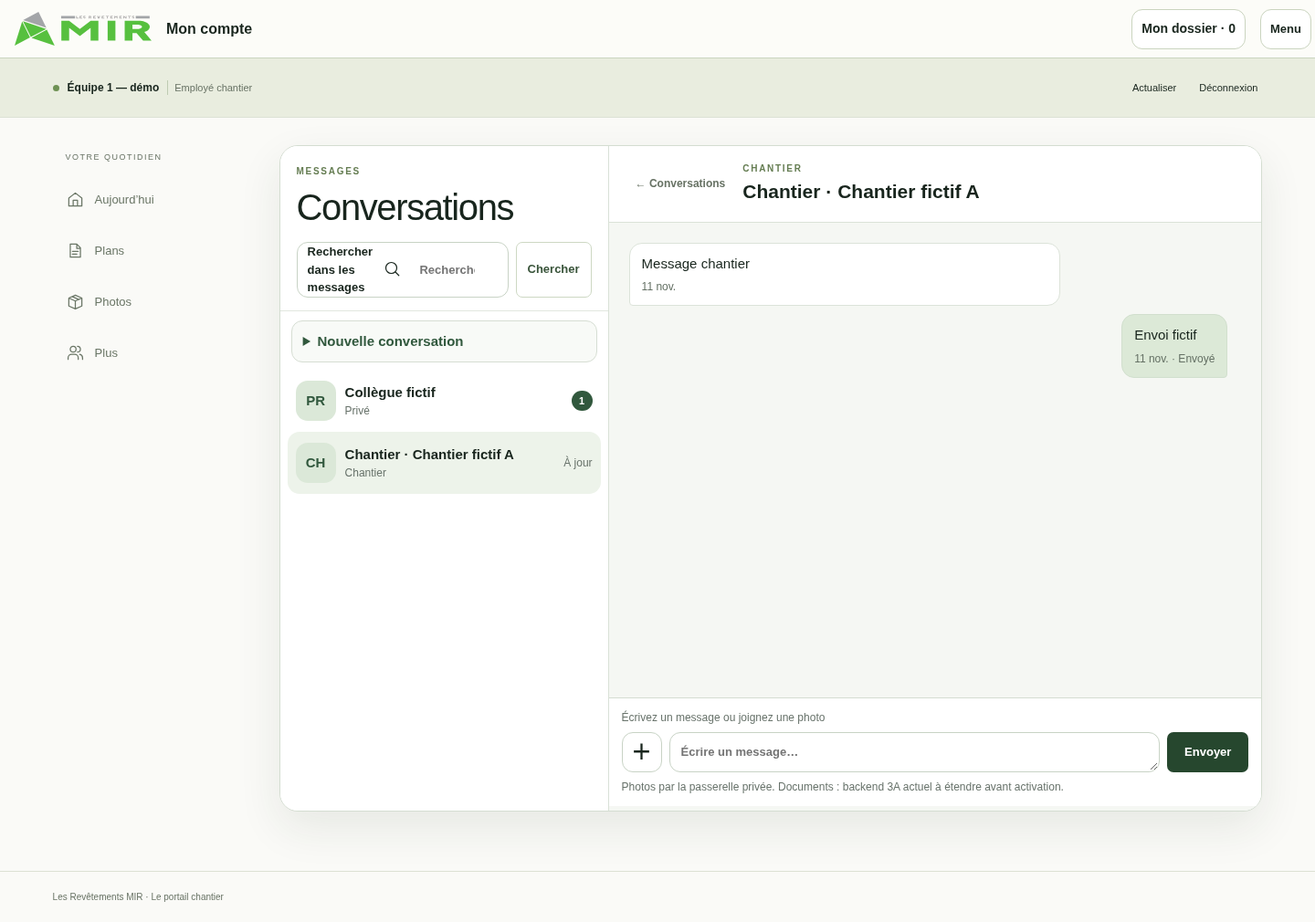
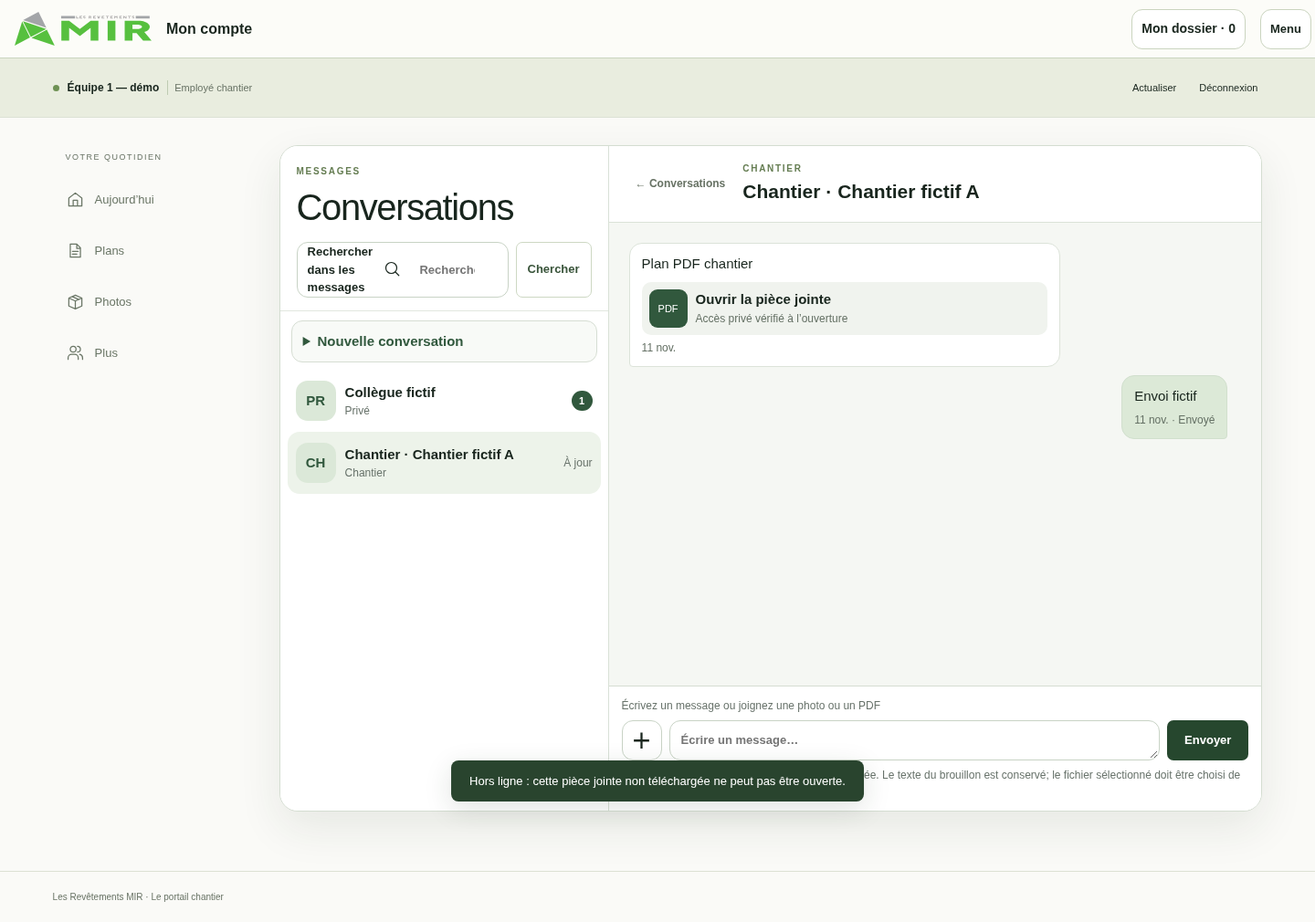
feat(chat): ajouter les PDF privés en phase 3B

Changed region(s): [[0.3438, 0.7366, 0.9688, 0.8901], [0.8438, 0.3376, 0.9375, 0.4911], [0.4688, 0.2762, 0.625, 0.3683]]

diff --git a/dist/chantier-app.js b/dist/chantier-app.js
@@ -259,7 +259,7 @@
     const list=`<aside class="chat-list-pane"><div class="chat-list-head">${heading('MESSAGES','Conversations','Privées, équipe et chantier.')}<form id="chat-search-form" role="search"><label><span class="sr-only">Rechercher dans les messages</span>${icon('search')}<input name="query" type="search" maxlength="120" value="${esc(chatQuery)}" placeholder="Rechercher"></label><button class="button secondary" type="submit">Chercher</button></form></div>${chatSearchResults?`<div class="chat-search-results"><div class="chat-section-title"><strong>Résultats</strong><button type="button" data-chat-search-close>Fermer</button></div>${chatSearchResults.length?chatSearchResults.map(message=>`<button type="button" data-conversation="${esc(message.conversationId)}"><strong>${esc(message.body||'Pièce jointe')}</strong><small>${date(message.sentAt)}</small></button>`).join(''):chatState('empty','Aucun résultat','Essayez un autre mot.')}</div>`:`<div class="chat-start"><details><summary>Nouvelle conversation</summary>${contacts.map(person=>`<button type="button" data-start-private="${esc(person.id)}"><strong>${esc(person.name)}</strong><small>Conversation privée · ${esc(person.role)}</small></button>`).join('')}${teams.map(team=>`<button type="button" data-start-team="${esc(team.id)}"><strong>${esc(team.name)}</strong><small>Conversation d’équipe</small></button>`).join('')}</details></div><div class="chat-conversations">${conversations.length?conversations.map(conversation=>{const label=chatConversationLabel(conversation,teams,contactMap),kind=conversation.kind==='job'?'Chantier':conversation.kind==='team'?'Équipe':'Privé';return `<button type="button" data-conversation="${esc(conversation.id)}" aria-current="${conversation.id===ui.conversationId?'true':'false'}"><span class="chat-avatar">${esc(kind.slice(0,2).toUpperCase())}</span><span><strong>${esc(label)}</strong><small>${esc(kind)}${conversation.lastMessage?.body?' · '+esc(conversation.lastMessage.body):''}</small></span>${conversation.unread?`<b class="chat-unread">${Number(conversation.unread)}</b>`:'<time>À jour</time>'}</button>`;}).join(''):chatState('empty','Aucune conversation','Les conversations autorisées apparaîtront ici.')} ${messaging.conversationPage?.hasMore?'<button type="button" class="button secondary chat-more" data-chat-conversations-more>Conversations suivantes</button>':''}</div>`}</aside>`;
     if(!selected)return `<section class="chat-workspace">${list}<div class="chat-placeholder">${online?chatState('empty','Choisissez une conversation','Les messages et pièces jointes s’ouvriront ici.'):chatState('offline','Vous êtes hors ligne','Les conversations déjà affichées restent visibles.')}</div></section>`;
     const messages=(messaging.messages||[]).filter(item=>item.conversationId===selected.id),title=chatConversationLabel(selected,teams,contactMap),draft=chatDraft(selected.id);
-    const thread=`<section class="message-thread"><header class="chat-thread-head"><button type="button" class="button quiet chat-back" data-messages-back>← Conversations</button><div><p class="portal-eyebrow">${selected.kind==='job'?'CHANTIER':selected.kind==='team'?'ÉQUIPE':'PRIVÉ'}</p><h1>${esc(title)}</h1></div></header>${!online?'<div class="chat-network" role="status">Hors ligne · le brouillon reste sur cet appareil</div>':''}${chatError?chatState('error','Accès impossible',chatError,'<button type="button" data-chat-retry>Réessayer</button>'):''}<div class="message-list" aria-busy="${chatLoading}">${messaging.messagePages?.[selected.id]?.hasMore?'<button type="button" class="button secondary chat-more" data-chat-messages-more>Messages précédents</button>':''}${chatLoading&&!messages.length?chatState('loading','Chargement des messages','Un instant…'):messages.length?messages.map(message=>`<article class="${message.senderId===actorId?'mine':'theirs'}"><p>${esc(message.body)}</p>${message.jobId?`<button type="button" data-job="${esc(message.jobId)}">Ouvrir le job</button>`:''}${chatAttachment(message)}<small>${date(message.sentAt)}${message.senderId===actorId?` · ${message.readCount?`Lu par ${message.readCount} sur ${message.recipientCount}`:message.deliveredCount?'Distribué':'Envoyé'}`:''}</small></article>`).join(''):chatState('empty','Aucun message','Écrivez le premier message de cette conversation.')}</div>${selected.readOnly?chatState('denied','Chantier archivé · lecture seule.','Les nouveaux envois sont refusés.'):`<form id="message-form" data-conversation="${esc(selected.id)}"><div class="chat-draft-status">${draft?'Brouillon enregistré':'Écrivez un message ou joignez une photo'}</div><label class="chat-compose"><span class="chat-file-button" title="Joindre une photo">＋<input name="photo" type="file" accept="image/jpeg,image/png,image/webp,image/heic,image/heif" capture="environment" aria-label="Joindre une photo"></span><textarea name="body" maxlength="4000" rows="1" placeholder="Écrire un message…" aria-label="Message">${esc(draft)}</textarea><button class="button chat-send" type="submit"${chatBusy||!online?' disabled':''}>${chatBusy?'Envoi…':'Envoyer'}</button></label><small class="chat-document-limit">Photos par la passerelle privée. Documents : backend 3A actuel à étendre avant activation.</small></form>`}</section>`;
+    const thread=`<section class="message-thread"><header class="chat-thread-head"><button type="button" class="button quiet chat-back" data-messages-back>← Conversations</button><div><p class="portal-eyebrow">${selected.kind==='job'?'CHANTIER':selected.kind==='team'?'ÉQUIPE':'PRIVÉ'}</p><h1>${esc(title)}</h1></div></header>${!online?'<div class="chat-network" role="status">Hors ligne · le brouillon texte reste sur cet appareil. Une pièce jointe non téléchargée ne peut pas être ouverte.</div>':''}${chatError?chatState('error','Accès impossible',chatError,'<button type="button" data-chat-retry>Réessayer</button>'):''}<div class="message-list" aria-busy="${chatLoading}">${messaging.messagePages?.[selected.id]?.hasMore?'<button type="button" class="button secondary chat-more" data-chat-messages-more>Messages précédents</button>':''}${chatLoading&&!messages.length?chatState('loading','Chargement des messages','Un instant…'):messages.length?messages.map(message=>`<article class="${message.senderId===actorId?'mine':'theirs'}"><p>${esc(message.body)}</p>${message.jobId?`<button type="button" data-job="${esc(message.jobId)}">Ouvrir le job</button>`:''}${chatAttachment(message)}<small>${date(message.sentAt)}${message.senderId===actorId?` · ${message.readCount?`Lu par ${message.readCount} sur ${message.recipientCount}`:message.deliveredCount?'Distribué':'Envoyé'}`:''}</small></article>`).join(''):chatState('empty','Aucun message','Écrivez le premier message de cette conversation.')}</div>${selected.readOnly?chatState('denied','Chantier archivé · lecture seule.','Les nouveaux envois sont refusés.'):`<form id="message-form" data-conversation="${esc(selected.id)}"><div class="chat-draft-status">${draft?'Brouillon enregistré':'Écrivez un message ou joignez une photo ou un PDF'}</div><label class="chat-compose"><span class="chat-file-button" title="Joindre une photo ou un PDF">＋<input name="photo" type="file" accept="image/jpeg,image/png,image/webp,image/heic,image/heif,application/pdf" aria-label="Joindre une photo ou un PDF"></span><textarea name="body" maxlength="4000" rows="1" placeholder="Écrire un message…" aria-label="Message">${esc(draft)}</textarea><button class="button chat-send" type="submit"${chatBusy||!online?' disabled':''}>${chatBusy?'Envoi…':'Envoyer'}</button></label><small class="chat-document-limit">Photos et PDF · 10 Mo maximum · passerelle privée. Le texte du brouillon est conservé; le fichier sélectionné doit être choisi de nouveau après rechargement.</small></form>`}</section>`;
     return `<section class="chat-workspace has-thread">${list}${thread}</section>`;}
   function renderAccount(){const requests=state.operations?.hrRequests||[];return `<section class="employee-simple">${heading('MON COMPTE','Congés, absences et heures','Vos renseignements RH restent séparés des chantiers et des messages.')}<div class="account-action-list">${state.punch?.enabled?`<button type="button" data-view="punch-hours">Mes heures ${icon('arrow')}</button>`:''}<button type="button" data-hr="absence">Signaler une absence aujourd’hui ${icon('arrow')}</button><button type="button" data-hr="leave">Demander un congé ou des vacances ${icon('arrow')}</button><button type="button" data-hr="requests">Mes demandes ${icon('arrow')}</button></div>${requests.length?`<div class="hr-request-list"><h2>Mes demandes</h2>${requests.filter(item=>item.employeeId===actorId).map(item=>`<article><strong>${item.type==='vacation'?'Vacances':item.type==='leave'?'Congé':'Absence'}</strong><span>${esc(item.startDate)} → ${esc(item.endDate)}</span><b>${item.status==='approved'?'Approuvé':item.status==='refused'?'Refusé':'En attente'}</b></article>`).join('')}</div>`:''}</section>`;}
   
@@ -640,7 +640,7 @@
       }
       save();return render();
     }
-    if(button.dataset.internalPhoto){try{const path=button.dataset.internalPhoto,url=path.split('/')[1]==='message'&&portalClient.chatPhotoURL?await portalClient.chatPhotoURL(path):await portalClient.internalPhotoURL(path);window.open(url,'_blank','noopener');}catch(error){toast(errorMessage(error));}return;}
+    if(button.dataset.internalPhoto){if(navigator.onLine===false){toast('Hors ligne : cette pièce jointe non téléchargée ne peut pas être ouverte.');return;}try{const path=button.dataset.internalPhoto,url=path.split('/')[1]==='message'&&portalClient.chatFileURL?await portalClient.chatFileURL(path):await portalClient.internalPhotoURL(path);window.open(url,'_blank','noopener');}catch(error){toast(errorMessage(error));}return;}
     if(button.dataset.materialTab){ui.materialTab=button.dataset.materialTab;save();return render();}
     if(button.dataset.latestPlan){const job=jobsForActor().find(item=>item.id===button.dataset.latestPlan),version=state.planVersions.find(item=>item.id===job?.publishedVersionId),document=(version?.documents||[])[0];if(!document)return showJob(button.dataset.latestPlan);if(!isDemo()&&document.id&&portalClient?.config.documentsEnabled){button.dataset.downloadPlan=document.id;button.dataset.documentName=document.name||'Plan-chantier.pdf';return handleClick({target:button});}const url=isDemo()?safeDocumentURL(document.url):null;if(url){window.open(url,'_blank','noopener');return;}return showJob(button.dataset.latestPlan);}
     if(button.dataset.extraJob){const job=jobById(button.dataset.extraJob);openDialog(dialogHeader('EXTRA CHANTIER',`Job ${jobNumber(job)}`,'Décrivez le travail supplémentaire demandé.')+`<form id="extra-form" class="dialog-form" data-job="${esc(job.id)}"><label>Description<textarea name="description" maxlength="1200" required></textarea></label><label>Photo facultative<input name="photo" type="file" accept="image/*" capture="environment"></label><p id="dialog-error" class="dialog-error" role="alert" hidden></p><div class="dialog-actions"><button type="button" class="button secondary" data-close-dialog>Annuler</button><button type="submit" class="button">Envoyer l’extra</button></div></form>`);return;}
@@ -724,7 +724,7 @@
      if(element.dataset.productColor||element.dataset.productFormat){const card=element.closest('[data-product]');updateProductPreview(card,itemById(card.dataset.product));return;}
     if(element.dataset.inventoryColor||element.dataset.inventoryFormat){const item=itemById(element.dataset.inventoryColor||element.dataset.inventoryFormat),form=element.closest('form'),out=model.configureLine(state,{itemId:item.id,quantity:item.quantityStep||1,colorId:form.elements.colorId?.value||undefined,formatId:form.elements.formatId?.value||undefined}),stock=out.ok?stockFor(out.line.stockKey):{known:false};form.querySelector('.stock-value').innerHTML=stockHTML(stock,item.unit);form.elements.quantity.value=stock.known?stock.onHand:'';}
   }
-  function handleInput(event) {const element=event.target;if(element.matches('#message-form textarea[name=body]')){ui.chatDrafts=ui.chatDrafts||{};ui.chatDrafts[element.form.dataset.conversation]=element.value;save();const status=element.form.querySelector('.chat-draft-status');if(status)status.textContent=element.value?'Brouillon enregistré':'Écrivez un message ou joignez une photo';}else if(element.matches('#chat-search-form input[name=query]')){chatQuery=element.value;}else if(element.id==='boutique-price-search'){query=element.value;render();$('#boutique-price-search')?.focus();}else if(element.matches('#create-order-form textarea[name=note]')){deliveryDraft.note=element.value;}else if(element.id==='catalogue-search'){query=element.value;renderCatalogueGrid();}else if(element.id==='inventory-search'){query=element.value;renderInventoryList();}else if(element.dataset.foldDimension){const form=element.closest('form'),values={};form.querySelectorAll('[data-fold-dimension]').forEach(input=>values[input.dataset.foldDimension]=input.value);$('#fold-diagram').innerHTML=foldSVG(itemById(form.dataset.item),values);}}
+  function handleInput(event) {const element=event.target;if(element.matches('#message-form textarea[name=body]')){ui.chatDrafts=ui.chatDrafts||{};ui.chatDrafts[element.form.dataset.conversation]=element.value;save();const status=element.form.querySelector('.chat-draft-status');if(status)status.textContent=element.value?'Brouillon enregistré':'Écrivez un message ou joignez une photo ou un PDF';}else if(element.matches('#chat-search-form input[name=query]')){chatQuery=element.value;}else if(element.id==='boutique-price-search'){query=element.value;render();$('#boutique-price-search')?.focus();}else if(element.matches('#create-order-form textarea[name=note]')){deliveryDraft.note=element.value;}else if(element.id==='catalogue-search'){query=element.value;renderCatalogueGrid();}else if(element.id==='inventory-search'){query=element.value;renderInventoryList();}else if(element.dataset.foldDimension){const form=element.closest('form'),values={};form.querySelectorAll('[data-fold-dimension]').forEach(input=>values[input.dataset.foldDimension]=input.value);$('#fold-diagram').innerHTML=foldSVG(itemById(form.dataset.item),values);}}
   function showDepartureInspection(runId){const data=logistics(),run=data.runs.find(r=>r.id===runId),vehicle=data.vehicles.find(v=>v.id===run?.vehicle_id),inspection=data.inspections.find(i=>i.run_id===runId&&i.phase==='pre_departure'),rules=data.rules.filter(r=>r.phase==='pre_departure'&&r.requirement!=='disabled'&&(!r.vehicle_id||r.vehicle_id===run.vehicle_id)&&(!r.vehicle_type||r.vehicle_type===vehicle?.vehicle_type)&&(!r.trailer_only||run.trailer_id));if(!inspection)return toast('L’inspection est en préparation. Actualisez la page.');openDialog(dialogHeader('AVANT LE DÉPART','Inspection du véhicule',`${rules.filter(r=>r.requirement==='required').length} vérification(s) obligatoires. Aucun contournement silencieux.`)+`<form id="departure-inspection-form" class="dialog-form" data-run="${esc(runId)}" data-inspection="${esc(inspection.id)}">${rules.map((r,index)=>`<fieldset class="inspection-check"><legend>${index+1}. ${esc(r.label)} ${r.requirement==='required'?'<b>Obligatoire</b>':'<span>Facultative</span>'}</legend><div><label><input type="radio" name="result-${esc(r.id)}" value="conform"${r.requirement==='required'?' required':''}> Conforme</label><label><input type="radio" name="result-${esc(r.id)}" value="problem"> Problème</label><label><input type="radio" name="result-${esc(r.id)}" value="na"> Non applicable</label></div><label>Commentaire${r.comment_required?' requis si problème':''}<input name="comment-${esc(r.id)}"></label><input type="hidden" name="rule" value="${esc(r.id)}"></fieldset>`).join('')}<div class="inspection-summary"><strong>${rules.length} vérifications</strong><span>Les problèmes bloquants exigent une approbation du Boss.</span></div><button class="button full warehouse-primary" type="submit">Vérifier et commencer la livraison</button></form>`);}
   async function punchPosition(){if(!state.punch?.settings?.gpsEnabled&&!state.punch?.settings?.gps_enabled)return{};if(!navigator.geolocation)return{};return new Promise((resolve,reject)=>navigator.geolocation.getCurrentPosition(p=>resolve({latitude:p.coords.latitude,longitude:p.coords.longitude,accuracy:p.coords.accuracy}),e=>state.punch?.settings?.gpsRequired||state.punch?.settings?.gps_required?reject(new Error('Autorisez la position GPS pour puncher.')):resolve({}),{enableHighAccuracy:true,timeout:10000,maximumAge:0}));}
   const showFormError=error=>clientStatus?.pending?toast(errorMessage(error)):dialogError(errorMessage(error));

diff --git a/dist/portal-client.js b/dist/portal-client.js
@@ -495,7 +495,7 @@
     async function chatSearch(query,cursor=null,limit=20){return chatRPC('mir_chat_search',{query_text:String(query||''),page_size:Math.min(50,Math.max(1,Number(limit)||20)),page_before:cursor});}
     function chatPath(path){
       const p=String(path||'').split('/'),file=p[4]?.split('.');
-      if(p.length!==5||p[0]!==internalOrg||p[1]!=='message'||!UUID.test(p[2])||!UUID.test(p[3])||file?.length!==2||!UUID.test(file[0])||!['jpg','png','webp','heic','heif'].includes(file[1])||/[%\\\s?#]/.test(path))fail('DOCUMENT_INVALID','Pièce jointe invalide.');return p;
+      if(p.length!==5||p[0]!==internalOrg||p[1]!=='message'||!UUID.test(p[2])||!UUID.test(p[3])||file?.length!==2||!UUID.test(file[0])||!['jpg','png','webp','heic','heif','pdf'].includes(file[1])||/[%\\\s?#]/.test(path))fail('DOCUMENT_INVALID','Pièce jointe invalide.');return p;
     }
     async function chatFile(action,conversation,extra){
       requireReady();if(!internalOrg||!UUID.test(conversation||''))fail('CONVERSATION_INVALID','Conversation invalide.');
@@ -513,11 +513,12 @@
     }
     async function validateMessageAttachment(conversation,path){chatPath(path);await chatFile('validate',conversation,{path});return chatRPC('mir_message_attachment_validate',{conversation,object_path:path});}
     async function ackChatMessage(message,state='read'){return chatRPC('mir_message_ack',{message,state});}
-    async function chatPhotoURL(path){
+    async function chatFileURL(path){
       requireReady();const parts=chatPath(path),blob=await chatFile('download',parts[2],{path});
-      if(!blob.size||blob.size>10*1024*1024||!['image/jpeg','image/png','image/webp','image/heic','image/heif'].includes(blob.type))fail('DOCUMENT_INVALID','Pièce jointe invalide.');
+      if(!blob.size||blob.size>10*1024*1024||!['image/jpeg','image/png','image/webp','image/heic','image/heif','application/pdf'].includes(blob.type))fail('DOCUMENT_INVALID','Pièce jointe invalide.');
       const url=blobURLs.createObjectURL(blob);chatURLs.add(url);return url;
     }
+    const chatPhotoURL=chatFileURL;
     // Phase3A chat API end.
     async function openConversation(kind,targetId){
       requireReady();if(!internalOrg||!['private','team','job'].includes(kind)||!UUID.test(targetId||''))fail('CONVERSATION_INVALID','Cette conversation ne peut pas être ouverte.');
@@ -525,8 +526,8 @@
     }
     async function uploadInternal(file,scope,entityId){
       requireReady();if(!internalOrg||!['message','extra','issue','receipt','material','problem','report','vehicle','delivery','inspection','signature'].includes(scope)||!UUID.test(entityId||''))fail('UPLOAD_INVALID','La destination de cette photo est invalide.');
-      const mime=String(file?.type||'').toLowerCase(),extensions={'image/jpeg':'jpg','image/png':'png','image/webp':'webp','image/heic':'heic','image/heif':'heif'};
-      if(!extensions[mime]||!file.size||file.size>10*1024*1024)fail('UPLOAD_INVALID','Utilisez une photo JPG, PNG, WebP ou HEIC de 10 Mo maximum.');
+      const mime=String(file?.type||'').toLowerCase(),extensions={'image/jpeg':'jpg','image/png':'png','image/webp':'webp','image/heic':'heic','image/heif':'heif',...(scope==='message'?{'application/pdf':'pdf'}:{})};
+      if(!extensions[mime]||!file.size||file.size>10*1024*1024)fail('UPLOAD_INVALID',scope==='message'?'Utilisez une photo ou un PDF de 10 Mo maximum.':'Utilisez une photo JPG, PNG, WebP ou HEIC de 10 Mo maximum.');
       // Phase3A chat upload begin.
       if(scope==='message'){
         const bytes=new Uint8Array(await file.arrayBuffer());let binary='';for(let at=0;at<bytes.length;at+=32768)binary+=String.fromCharCode(...bytes.subarray(at,at+32768));
@@ -538,7 +539,7 @@
       const path=`${internalOrg}/${scope}/${entityId}/${status.user.id}/${id}.${extensions[mime]}`;
       const {error}=await sdk.storage.from('mir-internal').upload(path,file,{contentType:mime,upsert:false,cacheControl:'3600'});if(error)throw errorOf(error,'La photo n’a pas pu être téléversée.');return path;
     }
-    async function internalPhotoURL(path){requireReady();if(String(path).split('/')[1]==='message')return chatPhotoURL(path);const {data,error}=await sdk.storage.from('mir-internal').createSignedUrl(path,300);if(error||!data?.signedUrl)throw errorOf(error||{},'Cette photo ne peut pas être ouverte.');return data.signedUrl;}
+    async function internalPhotoURL(path){requireReady();if(String(path).split('/')[1]==='message')return chatFileURL(path);const {data,error}=await sdk.storage.from('mir-internal').createSignedUrl(path,300);if(error||!data?.signedUrl)throw errorOf(error||{},'Cette photo ne peut pas être ouverte.');return data.signedUrl;}
     async function jobDossier(jobId,pageBefore=null,pageSize=20){
       requireReady();if(!internalOrg||!UUID.test(jobId||''))fail('JOB_INVALID','Ce chantier ne peut pas être ouvert.');
       const {data,error}=await sdk.rpc('mir_job_dossier_snapshot',{org:internalOrg,job:jobId,page_size:Math.min(50,Math.max(1,Number(pageSize)||20)),page_before:pageBefore||null});
@@ -567,7 +568,7 @@
     }
     return Object.freeze({ config, start, refresh, sendEmail, signInGoogle, signInPassword,signUpClient,resetPassword,resendConfirmation,setPassword,saveAddress,removeAddress,completeCallback, signOut, command, retry,
       acceptInvitation, listInvitations, downloadPlan, openConversation, uploadInternal, internalPhotoURL, jobDossier, jobDocumentURL, leadAction, bossAction, logisticsAction, adminLogisticsAction, managementAction, boutiquePriceAction, punchAction, syncPunchQueue, punchCorrection, punchAdmin, punchJournal, timeBankRequest, dispose,
-      chatConversations, chatMessages, chatSearch, validateMessageAttachment, ackChatMessage, chatPhotoURL,
+      chatConversations, chatMessages, chatSearch, validateMessageAttachment, ackChatMessage, chatFileURL, chatPhotoURL,
       getStatus: () => ({ ...status }), subscribe: listener => { listeners.add(listener); return () => listeners.delete(listener); }
     });
   }

diff --git a/supabase/functions/mir-chat-tenant-b-recipe/index.ts b/supabase/functions/mir-chat-tenant-b-recipe/index.ts
@@ -3,6 +3,7 @@ import "jsr:@supabase/functions-js/edge-runtime.d.ts";
 const TEST='https://hxtztkmbfpmzrieccwsg.supabase.co';
 const A='8aabc1c9-bd01-4ca1-ad62-b89b575a6bf9',B='3005c762-de14-4ab0-8bc8-16c4be92d0a4';
[2 lines of base64/hex data omitted]
 const reply=(status:number,data:unknown)=>new Response(JSON.stringify(data),{status,headers:{'content-type':'application/json','cache-control':'no-store'}});
 
 Deno.serve(async req=>{
@@ -17,11 +18,18 @@ Deno.serve(async req=>{
   const actor=await account.json();if(!account.ok||actor.role!=='admin'||actor.organizationId!==A)return reply(403,{status:'admin-a-required'});
   const users=await api('/auth/v1/admin/users?per_page=1000');const listed=await users.json();
   if(!users.ok)return reply(503,{status:'auth-admin-unavailable'});
-  if((listed.users||[]).some((u:any)=>u.app_metadata?.mir_test_fixture==='phase3a_tenant_b'))return reply(409,{status:'already-provisioned'});
+  const fixtures=(listed.users||[]).filter((u:any)=>u.app_metadata?.mir_test_fixture==='phase3a_tenant_b');
+  if(fixtures.length>1)return reply(409,{status:'duplicate-fixture'});
   const random=crypto.getRandomValues(new Uint8Array(36));password=btoa(String.fromCharCode(...random)).replace(/[+/=]/g,'x')+'Aa9!';
   const email='mir-phase3a-tenant-b@qa.invalid';
-  const made=await api('/auth/v1/admin/users',{method:'POST',body:JSON.stringify({email,password,email_confirm:true,app_metadata:{mir_test_fixture:'phase3a_tenant_b'}})});
-  const newUser=await made.json();if(!made.ok||!newUser.id)throw Error('AUTH_CREATE');created=true;userId=newUser.id;
+  if(fixtures.length){
+   userId=fixtures[0].id;
+   const reset=await api('/auth/v1/admin/users/'+userId,{method:'PUT',body:JSON.stringify({password})});
+   if(!reset.ok)throw Error('AUTH_RESET');
+  }else{
+   const made=await api('/auth/v1/admin/users',{method:'POST',body:JSON.stringify({email,password,email_confirm:true,app_metadata:{mir_test_fixture:'phase3a_tenant_b'}})});
+   const newUser=await made.json();if(!made.ok||!newUser.id)throw Error('AUTH_CREATE');created=true;userId=newUser.id;
+  }
   const provision=await api('/rest/v1/rpc/mir_chat_tenant_b_recipe_provision',{method:'POST',body:JSON.stringify({actor:userId})});
   const fixture=await provision.json();if(!provision.ok||!fixture.jobId)throw Error('PROVISION_'+provision.status+'_'+String(fixture?.code||'NO_CODE'));provisioned=true;
   const login=await api('/auth/v1/token?grant_type=password',{method:'POST',body:JSON.stringify({email,password})});
@@ -40,8 +48,12 @@ Deno.serve(async req=>{
   const bf=await file(bToken,B,bConversation,{action:'upload',mime:'image/png',base64:PNG});check('B positive gateway upload',bf.status===200,bf.status);
   const bReadsA=await file(bToken,A,aConversation,{action:'download',path:af.data?.path});check('B gateway to A refused',bReadsA.status===403,bReadsA.status);
   const aReadsB=await file(caller.slice(7),B,bConversation,{action:'download',path:bf.data?.path});check('A gateway to B refused',aReadsB.status===403,aReadsB.status);
+  const apdf=await file(caller.slice(7),A,aConversation,{action:'upload',mime:'application/pdf',base64:PDF});check('A positive PDF gateway upload',apdf.status===200,apdf.status);
+  const bpdf=await file(bToken,B,bConversation,{action:'upload',mime:'application/pdf',base64:PDF});check('B positive PDF gateway upload',bpdf.status===200,bpdf.status);
+  const bReadsAPdf=await file(bToken,A,aConversation,{action:'download',path:apdf.data?.path});check('B PDF gateway to A refused',bReadsAPdf.status===403,bReadsAPdf.status);
+  const aReadsBPdf=await file(caller.slice(7),B,bConversation,{action:'download',path:bpdf.data?.path});check('A PDF gateway to B refused',aReadsBPdf.status===403,aReadsBPdf.status);
   const failed=checks.filter(c=>c.status==='failed').length;
-  return reply(failed?409:200,{status:failed?'FAILED':'CERTIFIED_TENANT_B',passed:checks.length-failed,failed,provisioned:true,clientBUntouched:true,production:'not-accessed',checks});
+  return reply(failed?409:200,{status:failed?'FAILED':'CERTIFIED_TENANT_B',passed:checks.length-failed,failed,provisioned:true,reusedFixture:fixtures.length===1,clientBUntouched:true,production:'not-accessed',checks});
  }catch(error){
   password='';
   if(created&&!provisioned&&userId){try{const service=Deno.env.get('SUPABASE_SERVICE_ROLE_KEY')||'';await fetch(TEST+'/auth/v1/admin/users/'+userId,{method:'DELETE',headers:{apikey:service,authorization:'Bearer '+service}});}catch{}}

diff --git a/dist/chantier.html b/dist/chantier.html
@@ -18,13 +18,13 @@
   <script src="portal-config.js?v=account-20261108" defer></script>
   <script src="vendor/supabase-client.js" defer></script>
   <script src="vendor/qrcode.min.js" defer></script>
-  <script src="portal-client.js?v=chat-phase3b-1" defer></script>
+  <script src="portal-client.js?v=chat-phase3b-2" defer></script>
   <script src="mir-account-flow.js?v=1" defer></script>
   <script src="mir-store-review.js?v=1" defer></script>
   <script src="mir-today.js?v=phase2-1" defer></script>
-  <script src="chantier-app.js?v=chat-phase3b-1" defer></script>
+  <script src="chantier-app.js?v=chat-phase3b-2" defer></script>
 <link rel="stylesheet" href="mir-home-premium.css?v=20261105"><link rel="stylesheet" href="mir-client-header.css?v=1-harmony"><link rel="stylesheet" href="mir-client-signature.css?v=1-harmony"><link rel="stylesheet" href="mir-catalogue-photo.css?v=2">
-  <link rel="stylesheet" href="chantier-employee.css?v=chat-phase3b-1">
+  <link rel="stylesheet" href="chantier-employee.css?v=chat-phase3b-2">
   <link rel="stylesheet" href="mir-today.css?v=phase2-1">
 <link rel="stylesheet" href="mir-account.css?v=1"><script src="mir-client-return.js?v=audit-1" defer></script><link rel="stylesheet" href="mir-public-audit.css?v=estimate-1"></head>
 <body class="mir-signature" data-portal-mode="login" data-portal-connection="loading">

diff --git a/tools/validation/mir-chat-phase3b-real.py b/tools/validation/mir-chat-phase3b-real.py
@@ -1,0 +1,69 @@
+"""Targeted Phase 3B PDF integration on MIR TEST; no migrations or deployment."""
+import base64, hashlib, json, os, pathlib, sys, time, uuid
+import importlib.util
+
+root=pathlib.Path(__file__).resolve().parents[2]
+spec=importlib.util.spec_from_file_location('gateway3a',root/'tools/validation/mir-chat-files-real.py')
+gateway3a=importlib.util.module_from_spec(spec);spec.loader.exec_module(gateway3a)
+spec_pdf=importlib.util.spec_from_file_location('not_used',root/'tools/validation/mir-chat-phase3a-real.py')
+
+def make_pdf():
+    parts=[b'%PDF-1.4\n'];offsets=[]
+    for obj in [b'1 0 obj\n<< /Type /Catalog /Pages 2 0 R >>\nendobj\n',b'2 0 obj\n<< /Type /Pages /Kids [3 0 R] /Count 1 >>\nendobj\n',b'3 0 obj\n<< /Type /Page /Parent 2 0 R /MediaBox [0 0 72 72] >>\nendobj\n']:
+        offsets.append(sum(map(len,parts)));parts.append(obj)
+    xref=sum(map(len,parts));parts.append(b'xref\n0 4\n0000000000 65535 f \n')
+    parts.extend((f'{offset:010d} 00000 n \n'.encode() for offset in offsets))
+    parts.append(f'trailer\n<< /Size 4 /Root 1 0 R >>\nstartxref\n{xref}\n%%EOF\n'.encode())
+    return b''.join(parts)
+
+class Phase3B(gateway3a.GatewayCertification):
+    def certify(self):
+        self.report['kind']='real-MIR-TEST-phase3b-pdf';self.report['scope']='targeted PDF/photo gateway and messaging regressions';self.authenticate()
+        actor=self.roles.get('employe')
+        if not actor:raise RuntimeError('Existing employee account missing')
+        if self.gateway(actor,'download',path='%2e%2e')['status']!=400:raise RuntimeError('Gateway PDF version not ready')
+        self.setup();emp=self.employee;chef=self.chef;pdf=make_pdf();emp_id=self.sessions[emp]['id'];chef_id=self.sessions[chef]['id']
+        try:
+            uploaded={}
+            for label,mime,raw in [('photo','image/png',gateway3a.existing.PNG),('pdf','application/pdf',pdf)]:
+                r=self.gateway(chef,'upload',mime=mime,base64=base64.b64encode(raw).decode())
+                self.check('real '+label+' gateway upload',self.ok(r) and r['data']['mime']==mime,{'status':r['status'],'size':len(raw),'inspector':r['data'].get('inspector') if self.ok(r) else None})
+                uploaded[label]=r['data']['path']
+                read=self.gateway(emp,'download',path=uploaded[label])
+                self.check('real '+label+' gateway read',self.ok(read) and read['sha256']==hashlib.sha256(raw).hexdigest(),{'status':read['status']})
+            invalid=[b'not a PDF',pdf[:-8],pdf.replace(b'/Type /Catalog',b'/Type /Catalog /JavaScript')]
+            for index,raw in enumerate(invalid):
+                r=self.gateway(chef,'upload',mime='application/pdf',base64=base64.b64encode(raw).decode())
+                self.check('invalid PDF refused '+str(index+1),r['status']==422,{'status':r['status']})
+            request_id=str(uuid.uuid4())
+            first=self.send(chef,self.tag+' PDF',uploaded['pdf'],request_id=request_id);second=self.send(chef,self.tag+' PDF',uploaded['pdf'],request_id=request_id)
+            self.check('PDF message send idempotent',self.ok(first) and self.ok(second) and first['data']['id']==second['data']['id'],{'statuses':[first['status'],second['status']]})
+            photo=self.send(chef,self.tag+' PHOTO',uploaded['photo']);self.check('photo message regression',self.ok(photo),{'status':photo['status']})
+            page=self.rpc(emp,'mir_chat_messages',{'org':gateway3a.existing.ORG,'conversation':self.con,'page_size':1,'page_before':None})
+            self.check('real pagination still bounded',self.ok(page) and len(page['data']['items'])==1 and page['data'].get('nextCursor') is not None,{'status':page['status']})
+            search=self.rpc(emp,'mir_chat_search',{'org':gateway3a.existing.ORG,'query_text':self.tag,'page_size':20,'page_before':None})
+            ids={m['id'] for m in search['data']['items']} if self.ok(search) else set()
+            self.check('real search returns tagged photo and PDF',self.ok(search) and first['data']['id'] in ids and photo['data']['id'] in ids,{'status':search['status'],'count':len(ids)})
+            ack=self.rpc(emp,'mir_message_ack',{'org':gateway3a.existing.ORG,'message':first['data']['id'],'state':'read'})
+            self.check('real PDF unread receipt',self.ok(ack) and ack['data'].get('readAt') is not None,{'status':ack['status']})
+            before=self.assignments(emp_id);self.check('QA assignment present before PDF withdrawal',self.job in before)
+            changed=self.replace_assignments(emp_id,before-{self.job});self.check('PDF withdrawal applied',self.ok(changed),{'status':changed['status']})
+            for label in ('photo','pdf'):
+                denied=self.gateway(emp,'download',path=uploaded[label]);self.check(label+' new read refused after withdrawal',denied['status']==403,{'status':denied['status']})
+            restored=self.replace_assignments(emp_id,before);self.check('PDF reintegration applied',self.ok(restored),{'status':restored['status']})
+            allowed=self.gateway(emp,'download',path=uploaded['pdf']);self.check('PDF read restored after reintegration',self.ok(allowed),{'status':allowed['status']})
+            direct=self.request('GET','/storage/v1/object/authenticated/mir-internal/'+uploaded['pdf'],actor=emp)
+            self.check('PDF direct Storage remains refused',self.denied(direct),{'status':direct['status']})
+            self.report['fixtures'].update(pdfPath=uploaded['pdf'],photoPath=uploaded['photo'],pdfMessageId=first['data']['id'])
+            self.report['status']='TARGETED_TEST_PASSED';self.report['finishedAt']=time.strftime('%Y-%m-%dT%H:%M:%SZ',time.gmtime());self.save();return 0
+        finally:
+            for member in (emp_id,chef_id):
+                try:self.restore_qa_assignment(member)
+                except Exception as error:self.report.setdefault('restoreFailures',[]).append({'memberSuffix':member[-8:],'class':type(error).__name__});self.save()
+
+if __name__=='__main__':
+    cert=Phase3B()
+    try:code=cert.certify()
+    except Exception as error:
+        cert.report['status']='FAILED';cert.report['failureClass']=type(error).__name__;cert.save();code=1
+    print(json.dumps({'status':cert.report.get('status'),'passed':cert.report.get('passed',0),'failed':cert.report.get('failed',0)}));sys.exit(code)

diff --git a/docs/verification/mir-chat-phase3b-mobile.md b/docs/verification/mir-chat-phase3b-mobile.md
@@ -4,7 +4,9 @@
 
 Verdict : **PARTIELLEMENT VALIDÉ** sur la branche `codex/phase-3b-clavardage-mobile`, dépendante de la tête 3A certifiée `f5c2aa04450d708a8f86da51bc3c778d0ebf75e7`. La PR 3A n’étant pas fusionnée au démarrage, 3B ne repart pas d’un `main` incomplet.
 
-Le backend 3A n’a pas été migré, redéployé ni recertifié. Ses preuves restent : 38/38 contrôles passerelle au SHA `74d805179270a2aec86bebf7168b8444a6e4ff02`, puis 10/10 contrôles d’isolation A↔B au SHA `be90c35bb41def96a91cf90503b5c0b430d5369f`.
+Les preuves 3A sont réutilisées sans rejouer leur certification complète : 38/38 contrôles passerelle au SHA `74d805179270a2aec86bebf7168b8444a6e4ff02`, puis 10/10 contrôles d’isolation A↔B au SHA `be90c35bb41def96a91cf90503b5c0b430d5369f`.
+
+Extension PDF installée uniquement sur MIR TEST le 11 novembre 2026 : migration `chat_phase3b_pdf_attachments`, `mir-chat-files` v2 et recette isolée `mir-chat-tenant-b-recipe` v3. Le bucket `mir-internal` demeure privé et limité à 10 MiB; seul `application/pdf` a été ajouté aux cinq MIME image. La fonction conserve `verify_jwt=false` uniquement avec la vérification Auth explicite et les RPC d’autorisation 3A inchangés.
 
 ## Parcours réalisé
 
@@ -12,9 +14,10 @@ Le backend 3A n’a pas été migré, redéployé ni recertifié. Ses preuves re
 - Recherche serveur par `mir_chat_search`; un résultat réouvre la conversation par le même parcours autorisé et accuse uniquement ses propres reçus.
 - Fil responsive : plein écran sur téléphone; liste et conversation côte à côte sur tablette et ordinateur.
 - Messages paginés et dédupliqués, historique ancien chargé au-dessus, chantier archivé en lecture seule.
-- Photos ouvertes et téléversées exclusivement par `mir-chat-files`; aucun repli vers une URL Storage chat.
+- Photos et PDF ouverts et téléversés exclusivement par `mir-chat-files`; aucun repli vers une URL Storage chat.
+- PDF bornés à 10 MiB : en-tête/version, fin `%%EOF`, `startxref`, cible xref, catalogue/pages et nombre d’objets contrôlés. PDF chiffrés, scripts, actions de lancement et fichiers incorporés refusés par ce profil passif.
 - Brouillon par utilisateur et conversation conservé localement; il est supprimé seulement après confirmation d’envoi.
-- État hors ligne visible et envoi désactivé; retour en ligne sans perdre le brouillon.
+- État hors ligne visible et envoi désactivé; retour en ligne sans perdre le brouillon texte. Un fichier sélectionné doit être choisi de nouveau après rechargement et une pièce non téléchargée ne peut pas être ouverte hors ligne.
 - Verrou d’envoi en mémoire et contrôle d’opération existant : un double clic ne produit qu’une commande.
 - États chargement, vide, erreur avec nouvel essai, hors ligne et accès refusé/lecture seule.
 
@@ -31,18 +34,20 @@ Captures fonctionnelles simulées :
 
 ## Vérifications exécutées
 
-### Réel hébergé réutilisé, non rejoué
+### Réel hébergé
 
 - 3A passerelle : 38/38, run GitHub `43052372399`.
 - 3A isolation tenant : 10/10, run GitHub `43067261753`.
-- Aucun test 3B hébergé et aucune publication du frontend : la branche reste une proposition en PR brouillon.
+- Extension installée sur MIR TEST : `mir-chat-files` v2, `mir-chat-tenant-b-recipe` v3 et migration `chat_phase3b_pdf_attachments`.
+- Recette ciblée 3B hébergée : **en attente du run associé au prochain SHA poussé**. Aucun résultat n’est anticipé dans ce rapport.
+- Aucune publication du frontend : la branche reste une proposition en PR brouillon.
 
 ### Local et simulé
 
 - UI Playwright : 6/6 formats — 360×800, 390×844, 430×932, 768×1024, 1024×768, 1440×900.
-- Chaque format vérifie recherche, pagination, ordre/dédoublonnage, brouillon, hors ligne, envoi unique, reçu propre, archive, refus d’accès et non-régression Aujourd’hui.
+- Chaque format vérifie recherche, pagination, ordre/dédoublonnage, brouillon, choix PDF, limite hors ligne explicite, envoi unique, reçu propre, archive, refus d’accès et non-régression Aujourd’hui.
 - Contrats client 3A : 7/7.
-- Validateur/passerelle : 8/8.
+- Validateur/passerelle : 10/10, incluant PDF valide, faux PDF, PDF tronqué, contenu actif et taille excessive.
 - Aujourd’hui et modules protégés : 7/7.
 - Six rôles et refus sensibles : 7/7.
 - Syntaxe JavaScript et `git diff --check` réussis.
@@ -51,7 +56,7 @@ Ces résultats navigateur utilisent des comptes, RPC et réponses simulés. Ils 
 
 ## Limites et décision nécessaire
 
-Le backend 3A certifié accepte actuellement JPG, PNG, WebP, HEIC et HEIF. Il ne prend pas en charge les PDF ou documents génériques dans `mir-chat-files`. L’interface le signale et n’offre pas un faux parcours positif. Ajouter les documents demanderait une extension serveur bornée, ses validations binaires, une installation TEST et une certification distincte; rien de cela n’est réalisé silencieusement dans cette consolidation frontend.
+Le PDF est installé sur MIR TEST, mais le verdict demeure **PARTIELLEMENT VALIDÉ** tant que la recette hébergée du SHA exact n’a pas confirmé photo/PDF, refus A↔B, retrait/réintégration et les régressions de messagerie ciblées. Les autres documents génériques restent refusés. Le frontend n’est pas publié.
 
 Les copies déjà téléchargées ne sont pas révocables à distance. Le HTTP 500 historique de la route Storage native demeure distinct et n’est pas présenté comme corrigé par 3B.
 

diff --git a/docs/MIR-PROMPT-2-ETAT-ET-PASSATION-CODEX.md b/docs/MIR-PROMPT-2-ETAT-ET-PASSATION-CODEX.md
@@ -4,9 +4,11 @@
 
 La Phase 3A reste certifiée sur MIR TEST et n’a pas été rejouée. La branche 3B `codex/phase-3b-clavardage-mobile` dépend explicitement de sa tête `f5c2aa04450d708a8f86da51bc3c778d0ebf75e7`, car la PR #4 n’était pas fusionnée au démarrage.
 
-Le parcours mobile Harmony liste → conversation → pièce jointe est consolidé localement : privé/équipe/chantier, recherche, pagination, non-lus, photos par `mir-chat-files`, brouillons, hors ligne, protection d’envoi, chargement/vide/erreur/refus et dispositions téléphone/tablette/ordinateur. La recette Playwright passe sur six formats; les contrats 3A, Aujourd’hui et six rôles restent verts. Voir `docs/verification/mir-chat-phase3b-mobile.md`.
+Le parcours mobile Harmony liste → conversation → pièce jointe est consolidé localement : privé/équipe/chantier, recherche, pagination, non-lus, photos et PDF par `mir-chat-files`, brouillons, hors ligne, protection d’envoi, chargement/vide/erreur/refus et dispositions téléphone/tablette/ordinateur. La recette Playwright passe sur six formats; les contrats 3A, Aujourd’hui et six rôles restent verts. Voir `docs/verification/mir-chat-phase3b-mobile.md`.
 
-Verdict courant 3B : **PARTIELLEMENT VALIDÉ**. Les contrôles UI sont locaux/simulés et le frontend n’est pas publié. Le backend certifié ne prend actuellement en charge que les images; les documents/PDF restent une extension serveur à concevoir et recertifier, sans repli Storage. Production intacte; aucune Phase 3C ni refonte publique commencée.
+Extension PDF installée uniquement sur MIR TEST : migration `chat_phase3b_pdf_attachments`, `mir-chat-files` v2 et `mir-chat-tenant-b-recipe` v3. Le bucket privé reste borné à 10 MiB; les PDF sont inspectés comme documents passifs et passent par les mêmes contrôles Auth/organisation/conversation que les images, sans accès Storage direct. Aucun objet production n’a été modifié.
+
+Verdict courant 3B : **PARTIELLEMENT VALIDÉ**. Les contrôles UI photo/PDF sont locaux et simulés; la recette hébergée ciblée du SHA poussé reste à obtenir et le frontend n’est pas publié. Les documents autres que PDF restent refusés. Production intacte; aucune Phase 3C ni refonte publique commencée.
 
 ## Addendum courant — Phase 3A, 11 novembre 2026
 
@@ -241,6 +243,7 @@ Légende test : **Réel** = vérifié sur MIR TEST ou service réel par une preu
 | Exigence | État | Test | Associés |
 |---|---|---|---|
 | FAQ/demandes/chat client, transfert, statuts, non lus, pièces, notes internes | Partielle sur MIR TEST seulement | Réel schéma/RPC TEST; UI non testée | `help_faq`, `support_*`, `mir_client_center_snapshot`, `mir_support_*`; migration absente du dépôt |
+| Clavardage interne mobile : photo/PDF privés, recherche, pagination, non-lus, brouillon, envoi unique, hors ligne | Partiel | PDF installé sur MIR TEST; UI testée en simulation sur six formats; recette hébergée 3B en attente | `mir-chat-files` v2; `chat_phase3b_pdf_attachments`; aucun repli Storage; frontend non publié |
 | Navigation PC exacte et intégrations Matériaux/Nous joindre | Partielle | Simulation | `mir-public-menu.*`; tests menu |
 | Navigation mobile fixe exacte | Partielle | Simulation | menu public/mobile; audit requis |
 | Estimation envoyée directement à estimation@, jamais mailto, succès réel | Terminée | Réel | Edge `mir-estimates` TEST, service/recettes estimation |
